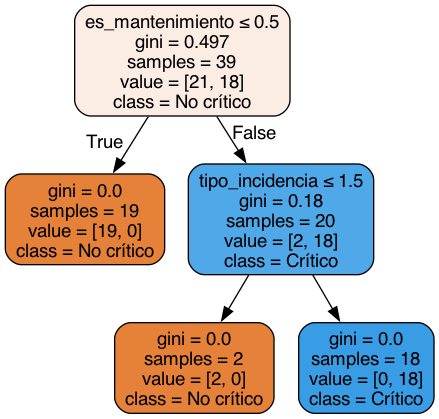
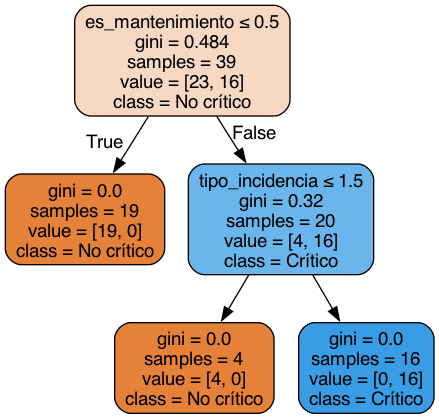
First attempt of random forest graphic

diff --git a/src/staticWeb/model.py b/src/staticWeb/model.py
@@ -115,7 +115,14 @@ def tree_graph(clf):
 
 
 def export_random_forest(clf):
-    path = image_path / "random_forest"
-    tree.export_decision_tree_graph(clf.estimators_[0], path)
-    return path
+    estimator = clf.estimators_[0]
+    dot_data = tree.export_graphviz(estimator, out_file=None, filled=True, rounded=True, special_characters=True,
+                                    feature_names=['cliente_id', 'fecha_apertura', 'fecha_cierre', 'es_mantenimiento',
+                                                   'tipo_incidencia'],
+                                    class_names=['No crítico', 'Crítico'])
 
+    graph = graphviz.Source(dot_data)
+    graph.format = 'png'
+    output_path = image_path / "random_forest"
+    graph.render(output_path, cleanup=True)
+    return "random_forest.png"
